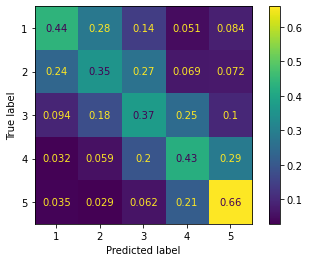
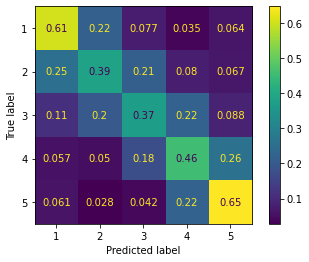
Completed readme with the information of my approach

diff --git a/README.md b/README.md
@@ -8,11 +8,33 @@ The objective then is, converting each review to [TF-IDF vectors](https://toward
 
 ![Photo: Alan Tansey, https://www.detail-online.com/blog-article/a-home-for-books-and-youngsters-childrens-library-by-mkca-33583/](https://www.detail-online.com/fileadmin/uploads/04-Blog/MKCA_Concourse_House-teaser-gross.jpg)
 
-## Simple model using Logistic Regression
+The "small" book review dataset consists of 27,164,983 reviews. Stored it in a MongoDB collection, and using `pymongo` I loaded a random subset of reviews. This is because I am working with a laptop and hence I can't work with massive datasets.
 
-The "small" book review dataset consists of 27,164,983 reviews. Stored it in a MongoDB collection, and using `pymongo` I loaded a random subset of 60,000 reviews. This is because I am working with a laptop and hence I can't work with massive datasets.
+I worked on this exercise from the [simplest Logistic Regression model](simple_logisitc_regression.ipynb), following by [reducing the dimensionality of the problem](svd_dim_reduct.ipynb) and ending exploring [different machine learning algorithms](pipeline_multi_ml.ipynb).
 
-The text of the review is cleaned removing punctuation and stopwords. Then I obtain the TF-IDF vectors for each review. By simply applying the Logistic Regression model, we obtain fairly good results:
+## [Simple model using Logistic Regression](simple_logisitc_regression.ipynb)
+
+The text of the review is cleaned removing punctuation, lemmatizing the text and stopwords. 
+
+Before processing more, I divided the dataset into train and test samples. This is because certain preprocessing techniques lead to [data leakage](https://machinelearningmastery.com/data-leakage-machine-learning/), and hence the trained models could be too optimistic.
+
+Then I obtain the TF-IDF vectors for each review. By simply applying the Logistic Regression model, we obtain fairly good results, but with overfitting signs.
+
+## [Reducing the number of features](svd_dim_reduct.ipynb)
+
+The TF-IDF vectors have ~20,000 dimensions, so we can test whether we can reduce the number of them and solve the overfitting problem.
+
+I ‘ve chosen the Truncated SVD method as it can be used with the database dimensions that I'm handling in my computer (PCA did not work in this case).
+
+Using 3500 dimensions we can encapsulate 80% of the variance, but the overfitting persists. By checking different numbers of dimensions we can see that we can reduce the dimensions up to 500 obtaining similar results without overfitting (the original approach with the TF-IDF vectors had ~20,000 features!).
+
+
+## [Choosing the best ML method](pipeline_multi_ml.ipynb)
+
+Finally, I created a Python Class classifier (with its `.fit(X,y)`, `.predict(X)`, `.predict_proba(X)` and `.score(X,y)` functions as any other classifier) that is initialized by analyzing among a set of ML classifiers the one that has a better performance on the train dataset. Among each ML method, the class also performs a grid search to obtain the best hyperparameters by performing different fits using cross validation.
+
+This allows to obtain the best approach to predict the Amazon books review ratings using the TF-IDF features. The performance of this method can be visualized in the following histogram and by obtaining the confusion matrix:
+
 
 ![Histogram Results](images/lr_traintest.png)
 
@@ -20,4 +42,6 @@ The confusion matrix of the test sample (normalized to the true ratings):
 
 ![Confusion matrix](images/lr_test.png)
 
-This is just a quick and very simplistic approach that certainly can be improved (reduce dimensionality, test more models, change hyperparameters...), but very useful to understand and learn the possibilities of this exercise.
+## Final thoughts
+
+This is just an approach that certainly can be improved, but very useful as a Natural Language Processing exercise to learn, so feel free to fork it and practice by yourself!
